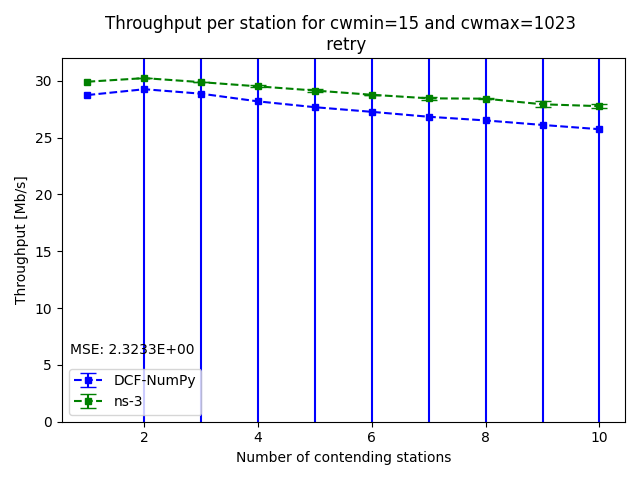
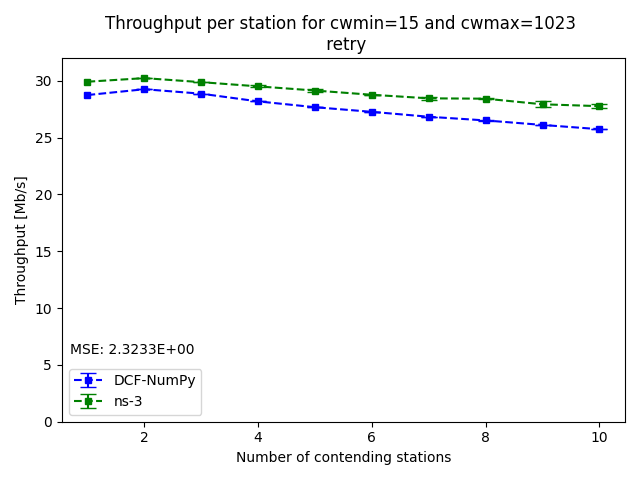
converts dcf-numpy simulation confidence intervals to Mbps

Changed region(s): [[0.75, 0.2188, 0.7812, 0.2812], [0.6562, 0.2188, 0.6875, 0.25], [0.5625, 0.2188, 0.5938, 0.25]]

diff --git a/validation/ns-3/test_ns3.py b/validation/ns-3/test_ns3.py
@@ -1,0 +1,39 @@
+import pandas as pd
+import conf_intervals
+import os
+
+
+def delete_anomallies(results, column):
+    """Deletes anomallies from dataframe, i.e. deltes the runs where result values equals 0
+
+    Args:
+        results (pandas.df): dataframe with results where anomallies may occur
+        column (string): name of column in df where anomallies should be deleted
+        returns (pandas.df): dataframe with results without 0 values in specified column
+    """
+    results_no_anomallies = results.drop(
+        results[results[column] == 0].index)
+
+    return results_no_anomallies
+
+
+ns3_results_dt = pd.read_csv(
+    '/home/cecylia/Documents/studies/thesis/validation/ns-3/ns3_raw.csv')
+
+ns3_results_dt = delete_anomallies(ns3_results_dt, 'thr_ns3')
+# calculating the confidence intervals for throughput results
+ns3_conf_intervals = conf_intervals.confidence_intervals(
+    ns3_results_dt, 'thr_ns3')
+
+# gruping the results with same N and calculating mean value for each N
+mean_ns3_results = ns3_results_dt.groupby(
+    'N')[['thr_ns3', 'p_coll_ns3']].mean()
+mean_ns3_results.columns = ['thr_ns3', 'p_coll_ns3']
+mean_ns3_results = mean_ns3_results.reset_index()
+
+# adding confidence intervals as column to results
+mean_ns3_results['ns3_conf_intervals'] = ns3_conf_intervals
+
+dir_path = os.path.dirname(os.path.realpath(__file__))
+
+mean_ns3_results.to_csv(f'{dir_path}/ns3_results.csv', index=False)

diff --git a/run_simulation.py b/run_simulation.py
@@ -57,8 +57,8 @@ throughput_results = pd.DataFrame(np.delete(simulation_results, -2, axis=1), col
     'throughput_simulation'
 ])
 
-#calculating the confidence intervals
-yerr = conf_intervals.confidence_intervals(throughput_results, 'throughput_simulation')
+#calculating the confidence intervals and converting them to Mbps
+yerr = conf_intervals.confidence_intervals(throughput_results, 'throughput_simulation')/10e6
 
 #grouping the results with the same N and calculating mean throughput for each N
 throughput_results = throughput_results.groupby([
